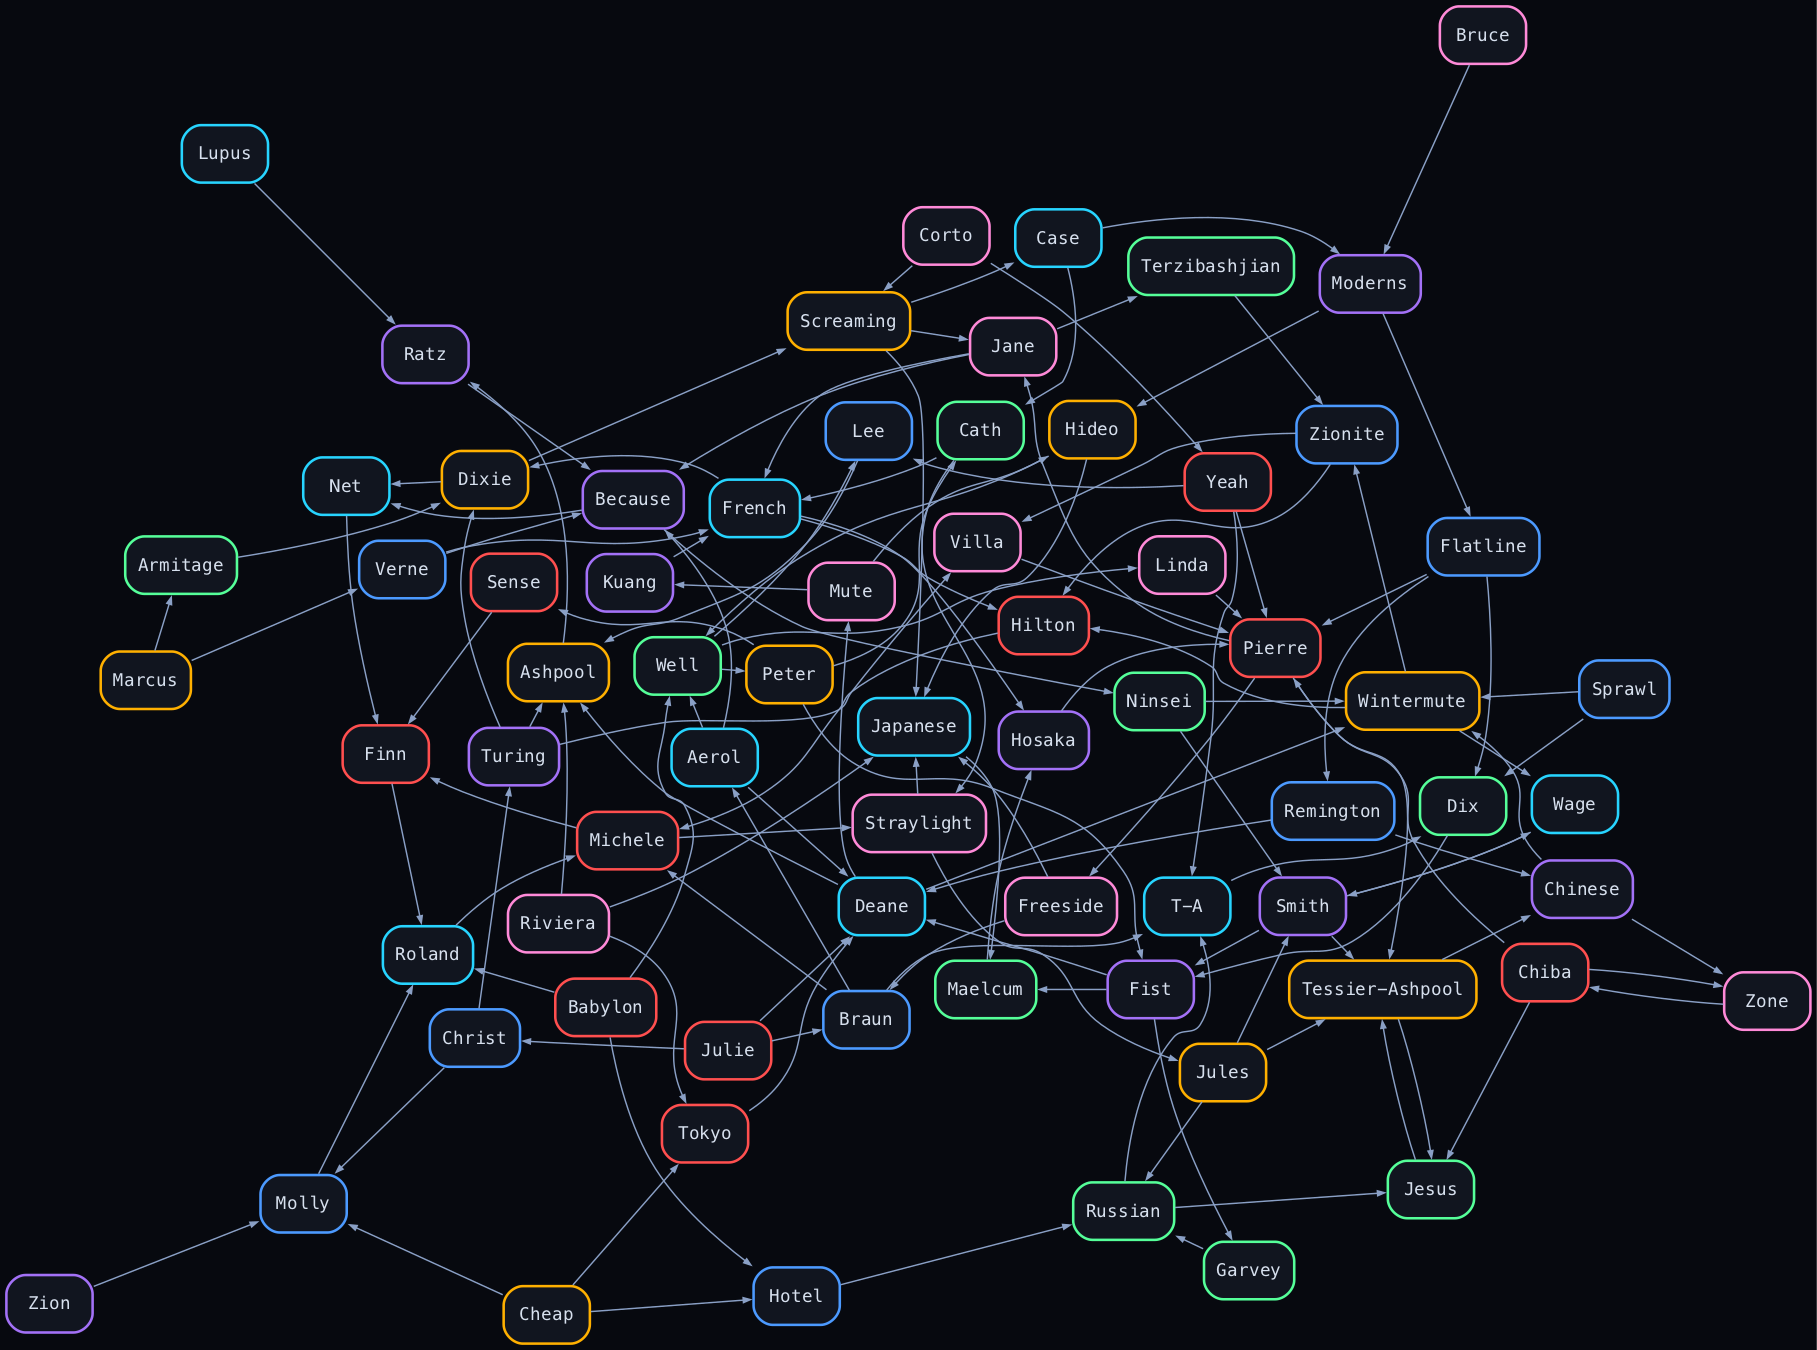
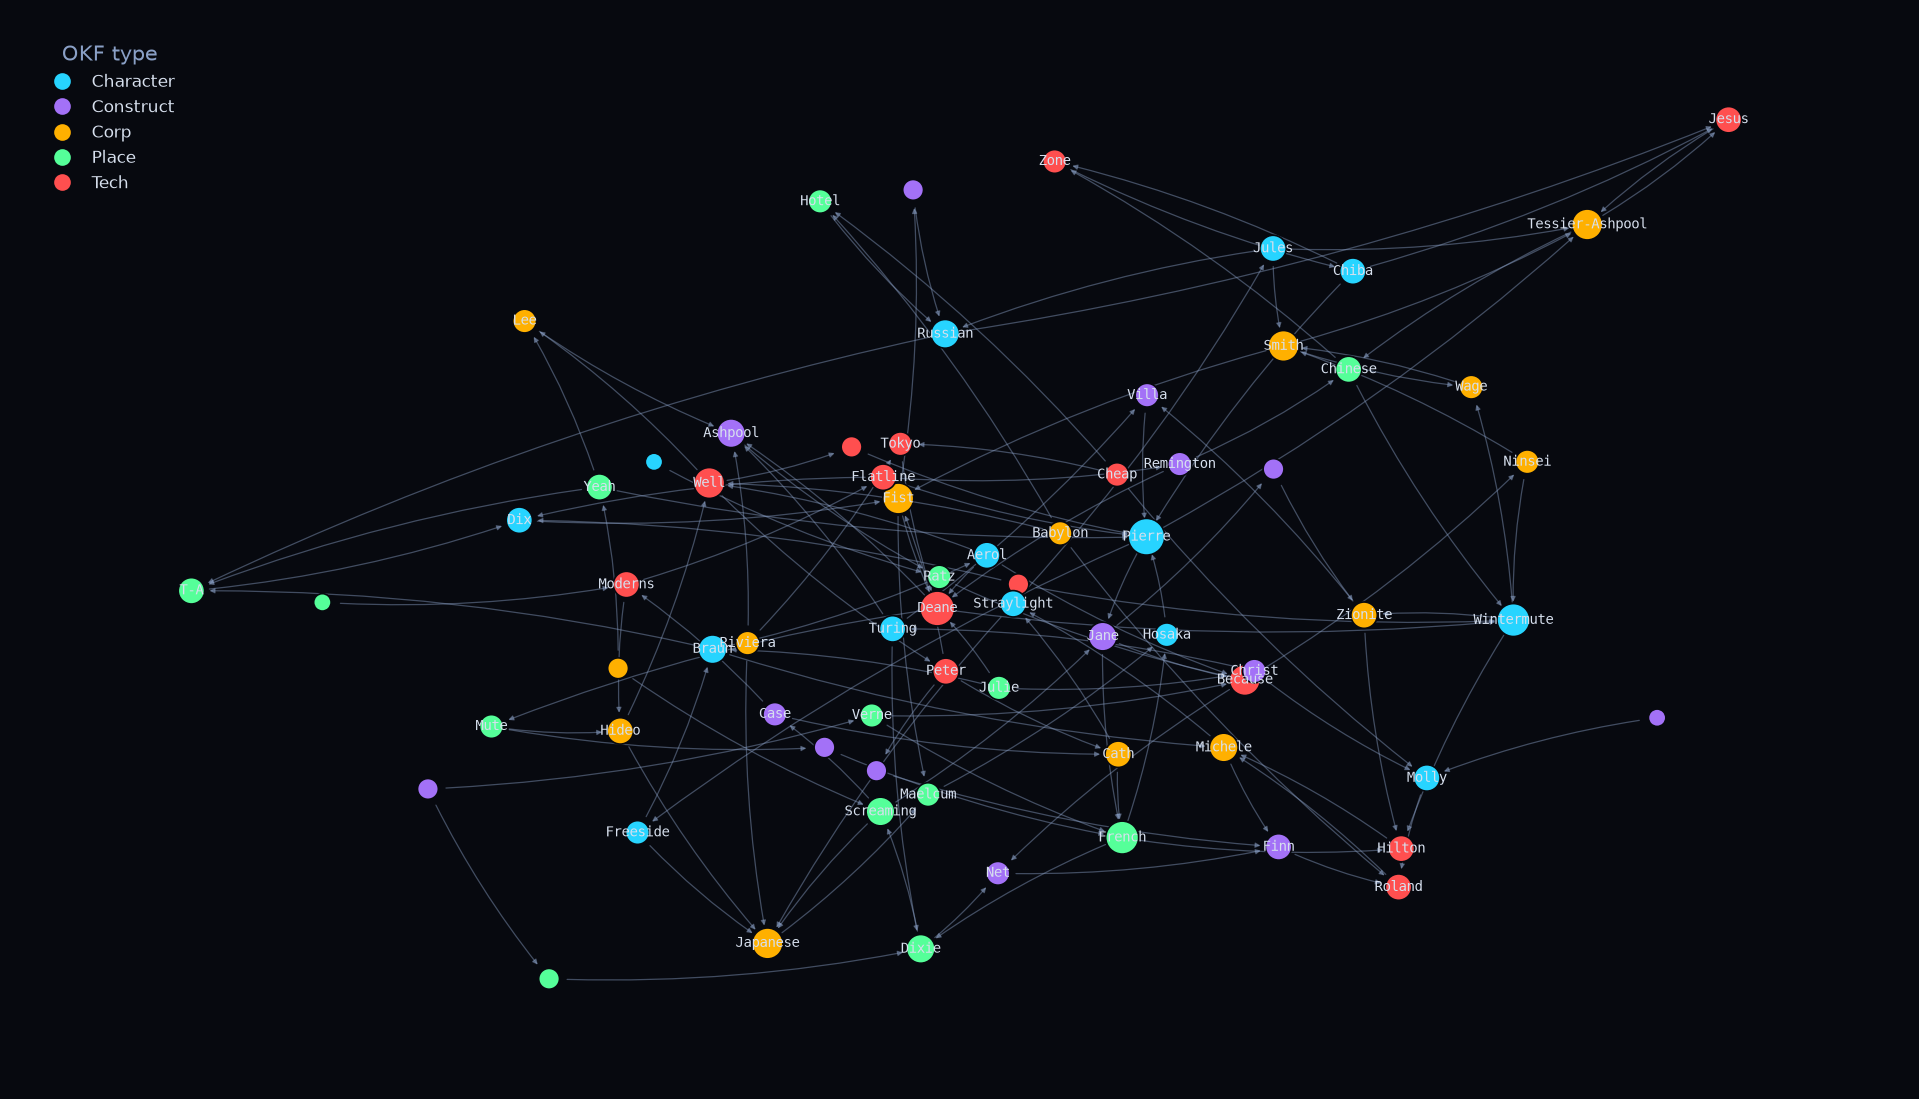
docs(graph): regenerate hero graph.png coloured by OKF type
The README hero graph now colours nodes by each note's OKF `type` (with a legend),
matching the web graph view added in 3.8.1. The demo renderer is rewritten as a
self-contained networkx + matplotlib script (the box's Graphviz lacked the sfdp
layout plugin, and this also drops the external Graphviz dependency + mirrors the
web graph's force-directed look); make_demo_vault.py assigns each demo note an
illustrative `type` (Character/Place/Construct/Corp/Tech). README caption + demo
README updated. Default `ruff check .` clean (docs/graph-demo is ruff-excluded).

Claude-Session: https://claude.ai/code/session_01JFuGddPx3UhUkcC74KBXZB

diff --git a/docs/graph-demo/render_graph.py b/docs/graph-demo/render_graph.py
@@ -1,31 +1,71 @@
 #!/usr/bin/env python3
-"""Render omind's graph JSON for the Neuromancer vault in the Cyberdeck theme."""
+"""Render omind's graph for the demo vault as a dark, force-directed PNG,
+coloured by each note's OKF `type` — mirroring omind's web graph view.
+
+Self-contained (no Graphviz needed). Run it with the two extra deps via uv:
+
+    MPLBACKEND=Agg uv run --with networkx --with matplotlib \
+        python render_graph.py /tmp/demo-vault ../graph.png
+"""
 import json
 import pathlib
 import subprocess
 import sys
 
-demo = sys.argv[1]; out_dot = pathlib.Path(sys.argv[2])
-data = json.loads(subprocess.check_output(
-    ["omind", "graph", "export", "--format", "json", "--vault", demo, "--folder", "OMI"], text=True))
-colors = json.loads((pathlib.Path(demo) / "colors.json").read_text())
-titles = {n["id"]: n["title"] for n in data["nodes"]}
+import matplotlib.pyplot as plt
+import networkx as nx
 
-# Cyberdeck: near-black bg, dark-slate fills, neon strokes, light mono labels, light edges.
-L = ['digraph omi {',
-     '  bgcolor="#07090f";',
-     '  layout=sfdp; overlap=prism; overlap_scaling=-4; splines=true; sep="+8";',
-     '  node [shape=box, style="rounded,filled", fillcolor="#11151f", '
-     'fontname="Menlo", fontsize=11, fontcolor="#d7e0ee", penwidth=1.6];',
-     '  edge [color="#8aa0c6", arrowsize=0.45, penwidth=0.9];']  # brighter than #5a6678
+demo = sys.argv[1]
+out_png = pathlib.Path(sys.argv[2])
+
+data = json.loads(subprocess.check_output(
+    ["omind", "graph", "export", "--format", "json", "--vault", demo, "--folder", "OMI"],
+    text=True))
+
+# Neon Cyberdeck colour per OKF `type` — the node's colour IS its kind.
+TYPE_COLOR = {
+    "Character": "#27d4ff", "Place": "#55ff99", "Construct": "#a371f7",
+    "Corp": "#ffb000", "Tech": "#ff4f4f",
+}
+DEFAULT = "#8aa0c6"
+BG = "#07090f"
+
+G = nx.DiGraph()
+title, ntype = {}, {}
 for n in data["nodes"]:
-    t = n["title"]
-    L.append(f'  "{t}" [label="{t}", color="{colors.get(t, "#27d4ff")}"];')
-for n in data["nodes"]:
-    for tgt in n["out"]:
-        tt = titles.get(tgt)
-        if tt:
-            L.append(f'  "{n["title"]}" -> "{tt}";')
-L.append("}")
-out_dot.write_text("\n".join(L) + "\n", encoding="utf-8")
-print("wrote", out_dot)
+    G.add_node(n["id"])
+    title[n["id"]] = n["title"] or n["id"][:-3]
+    ntype[n["id"]] = n["type"]
+for src, dst in data["edges"]:
+    G.add_edge(src, dst)
+
+# Deterministic force-directed layout (seeded so re-renders match).
+pos = nx.spring_layout(G, seed=1984, k=0.9, iterations=240)
+deg = dict(G.degree())
+
+fig, ax = plt.subplots(figsize=(16, 9), dpi=150)
+fig.patch.set_facecolor(BG)
+ax.set_facecolor(BG)
+ax.axis("off")
+
+nx.draw_networkx_edges(G, pos, ax=ax, edge_color="#8aa0c6", width=0.6, alpha=0.45,
+                       arrows=True, arrowsize=5, connectionstyle="arc3,rad=0.06")
+nx.draw_networkx_nodes(
+    G, pos, ax=ax,
+    node_color=[TYPE_COLOR.get(ntype[n], DEFAULT) for n in G.nodes()],  # colour == OKF type
+    node_size=[40 + 30 * deg[n] for n in G.nodes()],                    # size == link degree
+    edgecolors=BG, linewidths=0.8)
+# Label only the better-connected nodes so the hero image stays legible.
+nx.draw_networkx_labels(
+    G, pos, ax=ax, labels={n: title[n] for n in G.nodes() if deg[n] >= 3},
+    font_size=6.5, font_family="monospace", font_color="#d7e0ee")
+
+present = sorted({ntype[n] for n in G.nodes() if ntype[n]})
+handles = [plt.Line2D([0], [0], marker="o", linestyle="", markersize=8, markeredgecolor="none",
+                      markerfacecolor=TYPE_COLOR.get(t, DEFAULT), label=t) for t in present]
+legend = ax.legend(handles=handles, title="OKF type", loc="upper left", frameon=False,
+                   labelcolor="#d7e0ee", fontsize=8)
+legend.get_title().set_color("#8aa0c6")
+
+fig.savefig(out_png, facecolor=BG, bbox_inches="tight", pad_inches=0.2)
+print("wrote", out_png)

diff --git a/docs/graph-demo/make_demo_vault.py b/docs/graph-demo/make_demo_vault.py
@@ -25,21 +25,21 @@ names = sorted(names, key=lambda w: -cap[w])[:70]
 # real lines (for flavor bodies, kept local only)
 lines = [ln.strip() for ln in txt.splitlines() if 30 < len(ln.strip()) < 90]
 
-# neon Cyberdeck categorical palette for node strokes
-PALETTE = ["#27d4ff", "#55ff99", "#ffb000", "#ff4f4f", "#a371f7", "#4c9aff", "#ff8ad8"]
-colors = {n: PALETTE[i % len(PALETTE)] for i, n in enumerate(sorted(names))}
+# Give each node an OKF `type` (cycled thematically by sorted name) so the render
+# demonstrates omind's colour-by-type. The demo is synthetic, so the types are
+# illustrative — the point is that each node's colour encodes its `type`.
+TYPES = ["Character", "Place", "Construct", "Corp", "Tech"]
+types = {n: TYPES[i % len(TYPES)] for i, n in enumerate(sorted(names))}
 
 for n in names:
     k = random.randint(1, 3)  # random out-links -> dense, organic graph
     targets = random.sample([m for m in names if m != n], k)
-    body = [f"# {n}", "", random.choice(lines), ""]
+    # A minimal OKF note: YAML frontmatter with the required `type`, then the body.
+    body = [f"---\ntype: {types[n]}\n---", "", f"# {n}", "", random.choice(lines), ""]
     body += [f"- [[{t}]]" for t in targets]
     safe = re.sub(r"[^\w '\-]", "", n)
     (OMI / f"{safe}.md").write_text("\n".join(body) + "\n", encoding="utf-8")
 
-# emit the color map for the renderer
-import json
-
-(VAULT / "colors.json").write_text(json.dumps(colors), encoding="utf-8")
 print(f"wrote {len(names)} Neuromancer nodes to {OMI}")
+print("types:", ", ".join(sorted(set(types.values()))))
 print("sample:", ", ".join(names[:12]))

diff --git a/docs/graph-demo/README.md b/docs/graph-demo/README.md
@@ -1,25 +1,28 @@
 # Graph demo — how `docs/graph.png` was made
 
 The README hero is `omind graph` rendered over a **synthetic** demo vault (no private
-data). Two small, dependency-free scripts build it:
+data), with nodes **coloured by each note's OKF `type`** — the same signal omind's web
+graph view uses. Two small scripts build it:
 
 1. **`make_demo_vault.py`** — generates an OMI vault of notes whose `[[wikilinks]]` form
    a connected graph. It pulls proper-noun node names from a plain-text corpus you point
-   it at and adds a few random cross-links per note. Only the node **names** end up in the
-   rendered image — no prose is published.
+   it at, assigns each note an illustrative OKF `type` (Character / Place / Construct /
+   Corp / Tech), and adds a few random cross-links per note. Only node **names** and their
+   `type` reach the rendered image — no prose is published.
 
    ```bash
    python3 make_demo_vault.py /path/to/corpus.txt /tmp/demo-vault
    ```
 
-2. **`render_graph.py`** — calls `omind graph export --format json` on that vault and emits
-   a [Cyberdeck](https://codeberg.org/CryptoJones/cyberdeck-theme)-themed Graphviz `dot`
-   (near-black `#07090f` background, neon node strokes, light edges), which you render with
-   `sfdp`:
+2. **`render_graph.py`** — calls `omind graph export --format json` on that vault and draws
+   a dark, force-directed PNG whose nodes are **coloured by OKF `type`** (and sized by link
+   degree), with a type legend, in the
+   [Cyberdeck](https://codeberg.org/CryptoJones/cyberdeck-theme) palette. Self-contained —
+   no Graphviz needed; run it with its two extra deps via `uv`:
 
    ```bash
-   python3 render_graph.py /tmp/demo-vault graph.dot
-   sfdp -Tpng -Gsize="16,9!" -Gratio=compress -Gdpi=150 graph.dot -o graph.png
+   MPLBACKEND=Agg uv run --with networkx --with matplotlib \
+       python render_graph.py /tmp/demo-vault ../graph.png
    ```
 
 The shipped image used William Gibson's *Neuromancer* as the corpus — hence Case, Molly,

diff --git a/CHANGELOG.md b/CHANGELOG.md
@@ -7,6 +7,9 @@ and this project adheres to [Semantic Versioning](https://semver.org/spec/v2.0.0
 
 ## [Unreleased]
 
+### Docs
+- Regenerated the README hero graph (`docs/graph.png`) so its nodes are coloured by OKF `type` (with a legend), matching the web graph view. The demo renderer (`docs/graph-demo/render_graph.py`) is now a self-contained `networkx` + `matplotlib` script (no Graphviz dependency); `make_demo_vault.py` assigns each demo note an illustrative `type`.
+
 ## [3.8.1] - 2026-07-02
 
 ### Fixed

diff --git a/README.md b/README.md
@@ -18,7 +18,7 @@ OMI/Obsidian memory tooling for AI agents: reproduce the integration on any mach
 
 ![omind's knowledge graph over a vault's [[wikilinks]]](docs/graph.png)
 
-*`omind graph` over an OMI vault — every note a node, every `[[wikilink]]` an edge. Rendered from `omind graph export` (see [docs/graph-demo](docs/graph-demo/)).*
+*`omind graph` over an OMI vault — every note a node **coloured by its OKF `type`** (and sized by link degree), every `[[wikilink]]` an edge. Rendered from `omind graph export` (see [docs/graph-demo](docs/graph-demo/)).*
 
 ## What it does
 